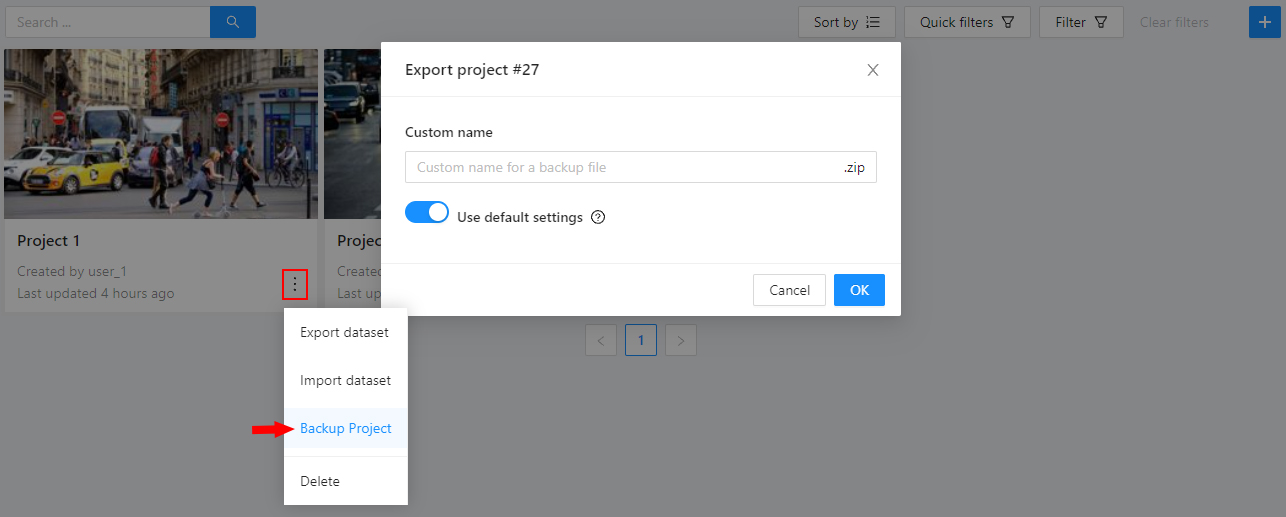
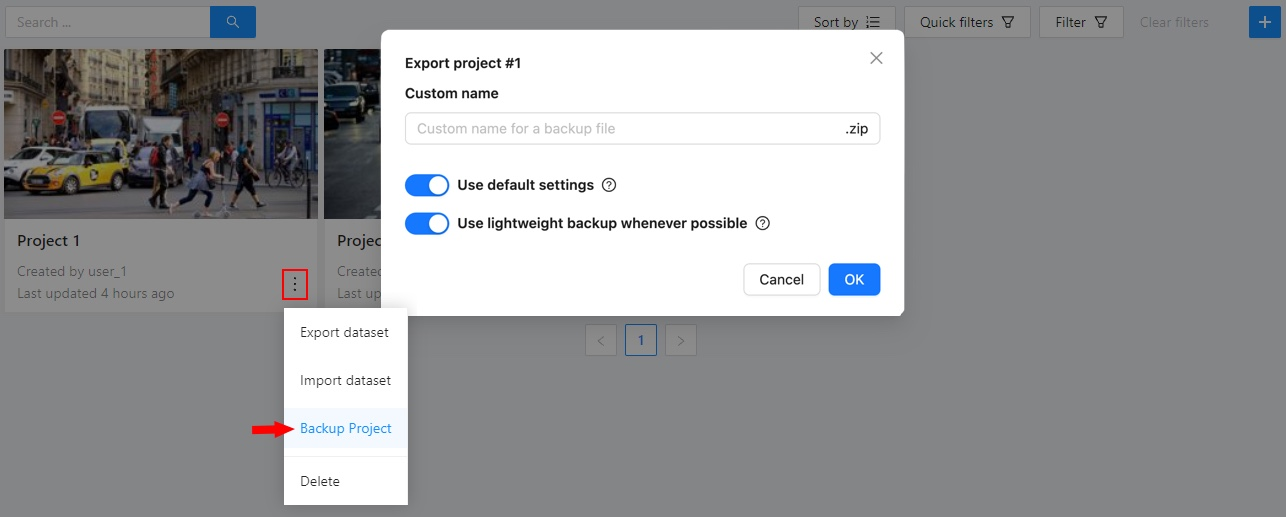
Update the manual for lightweight backups and cloud storage replacement (#9742)

diff --git a/site/content/en/docs/manual/advanced/backup.md b/site/content/en/docs/manual/advanced/backup.md
@@ -18,6 +18,13 @@ To backup a task or project, open the action menu and select `Backup Task` or `B
 You can backup a project or a task locally on your PC or using an
 {{< ilink "/docs/manual/basics/attach-cloud-storage" "attached cloud storage" >}}.
 
+The dialog includes a switch **`Use lightweight backup whenever possible`**.
+When enabled, CVAT creates a lightweight backup for data that comes from attached cloud storage:
+the backup stores task/project meta and annotations and **does not** copy raw media files.
+This reduces backup size and time for cloud-backed data.
+The switch has no effect on a tasks, whose data is located on CVAT.
+The switch is enabled by default.
+
 (Optional) Specify the name in the `Custom name` text field for backup, otherwise the file of backup name
 will be given by the mask `project_<project_name>_backup_<date>_<time>.zip` for the projects
 and `task_<task_name>_backup_<date>_<time>.zip` for the tasks.
@@ -55,6 +62,9 @@ click the `Create from backup` button and select the archive you need.
 
 As a result, you'll get a task containing data, parameters, and annotations of
 the previously exported task.
+
+> Note: When restoring from a **lightweight backup**, CVAT creates a task which is not attached to cloud storage.
+> Data cannot be fetched until cloud storage is attached on a Task page.
 
 ## Backup file structure
 

diff --git a/site/content/en/docs/manual/basics/task-details.md b/site/content/en/docs/manual/basics/task-details.md
@@ -24,6 +24,7 @@ The next actions are available on this page:
     In the list of users, you will only see the users of the
     {{< ilink "/docs/manual/advanced/organization" "organization" >}}
     where the task is created.
+1. **Cloud storage** — view the cloud storage attached to the task and change it to another attached storage if needed.
 
 **Jobs** is a list of all jobs for a particular task. Here you can find the next data:
 - Jobs name with a hyperlink to it.

diff --git a/site/content/en/docs/manual/basics/requests-page.md b/site/content/en/docs/manual/basics/requests-page.md
@@ -23,6 +23,7 @@ On the **Requests** page, requests are displayed as cards. Each card contains th
   - **Finished Date**
   - **Result Expiration Date**
 - **Annotations Format**
+- **Lightweight backup** (shown for backup requests created with the lightweight option)
 - **Menu** to download the result or cancel a `Queued` job
 
 {{% alert title="Note" color="primary" %}}

diff --git a/changelog.d/20250820_115945_dmitrii.lavrukhin_lightweight_backup.md b/changelog.d/20250820_115945_dmitrii.lavrukhin_lightweight_backup.md
@@ -1,0 +1,4 @@
+### Added
+
+- Lightweight backup option in Export backup dialog (excludes media for cloud-storage tasks).
+  (<https://github.com/cvat-ai/cvat/pull/9535>)

diff --git a/changelog.d/20250820_115940_dmitrii.lavrukhin_lightweight_backup.md b/changelog.d/20250820_115940_dmitrii.lavrukhin_lightweight_backup.md
@@ -1,0 +1,4 @@
+### Added
+
+- Ability to replace cloud storage for tasks.
+  (<https://github.com/cvat-ai/cvat/pull/9535>)
